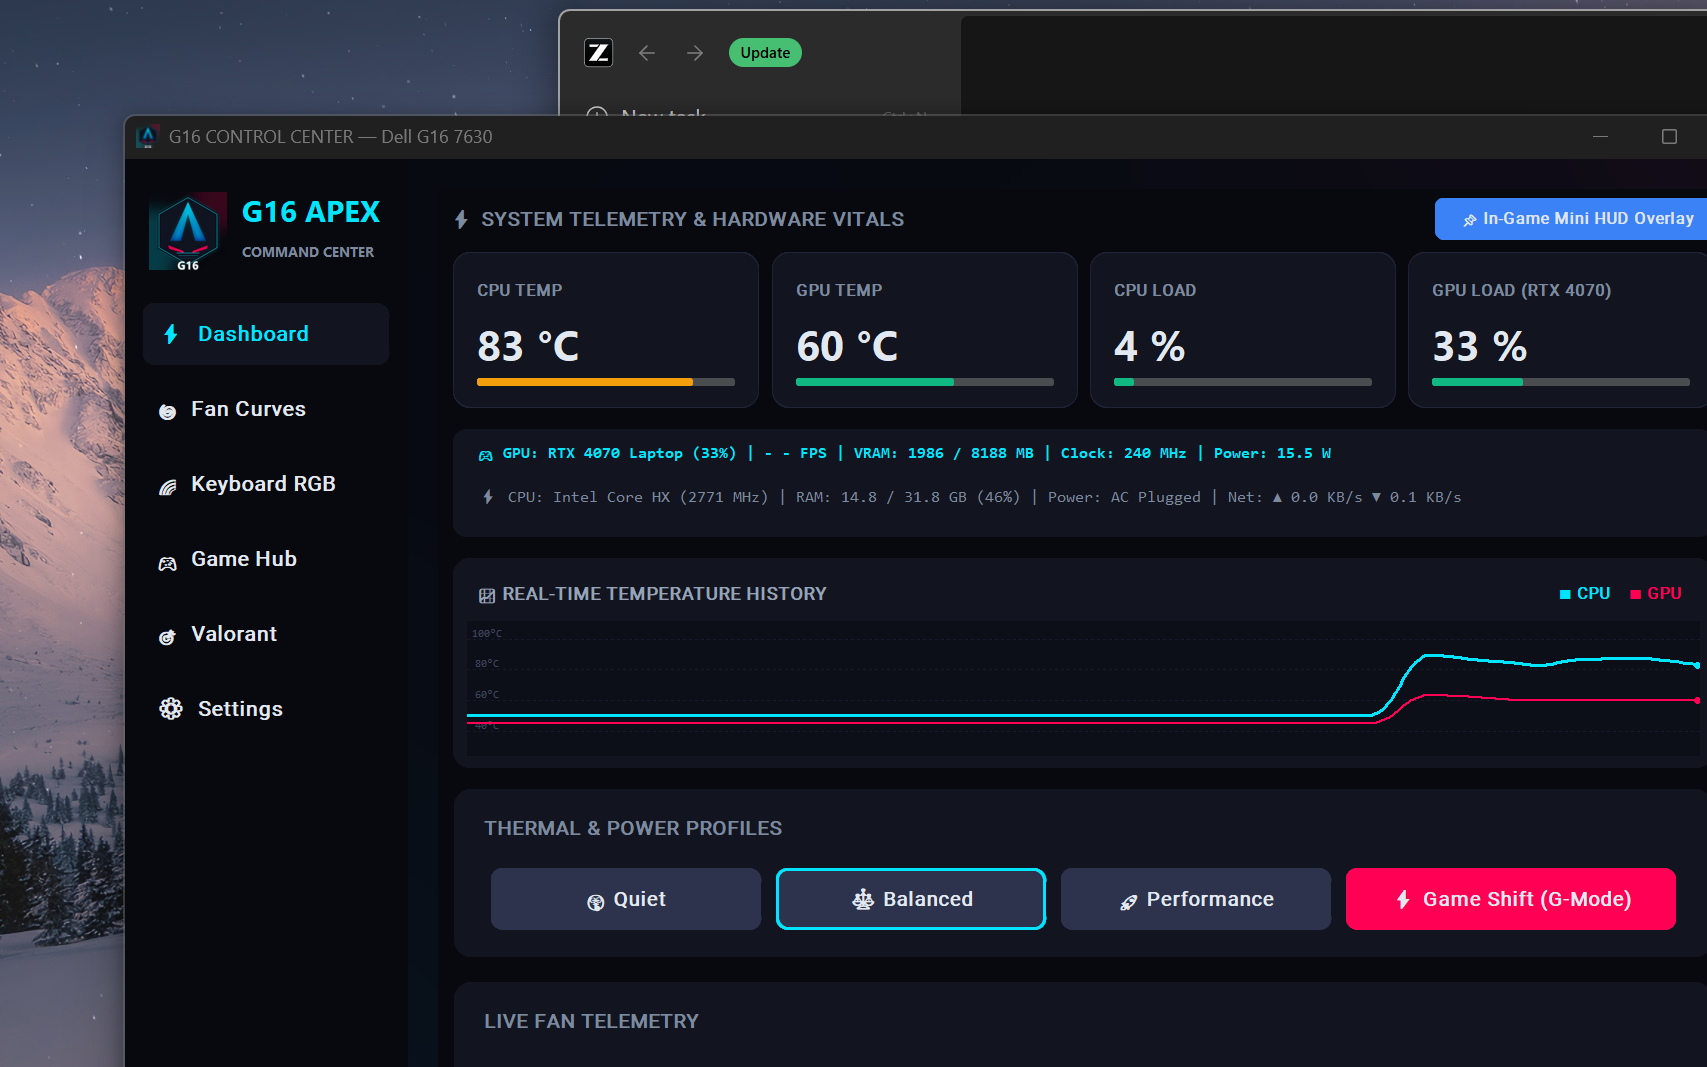
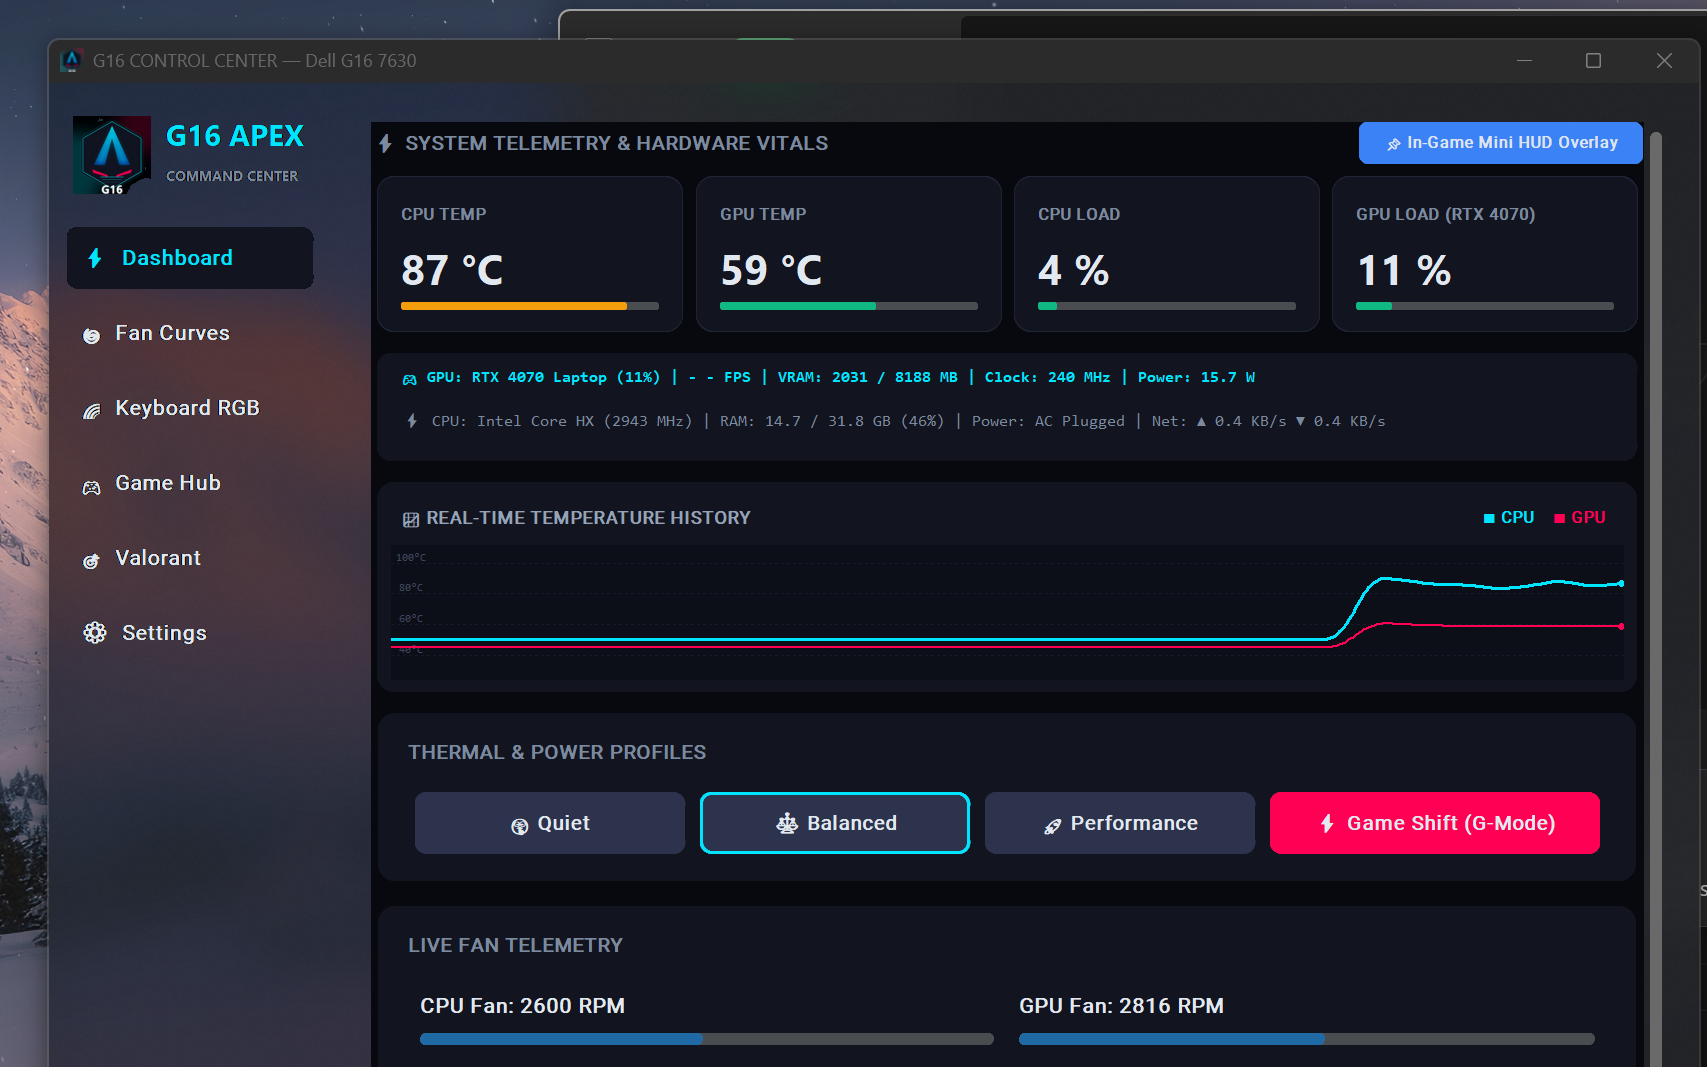
UI: real DWM acrylic glass backdrop, instant RGB presets, dedicated RGB engine
- DWM ACCENT_ENABLE_ACRYLICBLURBEHIND + Tk transparent color key = true
  frosted-glass window (smoked dark tint, falls back to gradient textures)
- RGB architecture: dedicated HID thread immune to WMI stalls; keepalive
  re-broadcasts per-key layouts every 12s; auto device reopen
- Color presets and custom picker now apply instantly to the whole board
- Ctrl+Alt+1..6 tab hotkeys + headless .shot_request tab automation
- Premium layered-glow logo (hex shield, gradient blade, crimson eyes)
- faulthandler crash tracing; docs/screenshots refreshed

diff --git a/app.py b/app.py
@@ -138,9 +138,11 @@ class G16App(ctk.CTk):
         # Mini HUD Window Instance (created hidden)
         self.mini_hud: Optional[ui_widgets.MiniHUDWindow] = None
 
-        # Dark titlebar + gradient background textures (visual overhaul)
+        # Real DWM acrylic glass backdrop + dark titlebar; falls back to
+        # gradient textures if the composition call is unavailable.
+        self._acrylic_ok = False
+        self.after(60, self._apply_acrylic)
         self._apply_dark_titlebar()
-        self._apply_background_textures()
 
         # Backend Engine
         self.backend = G16Backend(on_state_update=self.on_hardware_update)
@@ -242,6 +244,56 @@ class G16App(ctk.CTk):
             pass
 
     # ==========================================
+    # Visual shell: DWM acrylic glass + dark titlebar
+    # ==========================================
+    ACRYLIC_KEY = "#010203"  # magic color key - nothing else may use it
+
+    def _apply_acrylic(self):
+        """Turn the window background into real frosted-glass acrylic:
+        DWM ACCENT_ENABLE_ACRYLICBLURBEHIND + Tk transparent color key.
+        Falls back silently to the gradient textures if unsupported."""
+        try:
+            hwnd = ctypes.windll.user32.GetParent(self.winfo_id())
+            if not hwnd:
+                raise RuntimeError("no hwnd")
+
+            class ACCENT_POLICY(ctypes.Structure):
+                _fields_ = [("AccentState", ctypes.c_uint),
+                            ("AccentFlags", ctypes.c_uint),
+                            ("GradientColor", ctypes.c_uint),
+                            ("AnimationId", ctypes.c_uint)]
+
+            class WCA_DATA(ctypes.Structure):
+                _fields_ = [("Attrib", ctypes.c_uint),
+                            ("pvData", ctypes.POINTER(ACCENT_POLICY)),
+                            ("cbData", ctypes.c_size_t)]
+
+            # AccentState 4 = ACCENT_ENABLE_ACRYLICBLURBEHIND
+            # GradientColor is 0xAABBGGRR: smoked dark glass at ~80% strength
+            ap = ACCENT_POLICY(AccentState=4, AccentFlags=2,
+                               GradientColor=0x5533251E, AnimationId=0)
+            wca = WCA_DATA(Attrib=19, pvData=ctypes.pointer(ap),
+                           cbData=ctypes.sizeof(ap))
+            if not ctypes.windll.user32.SetWindowCompositionAttribute(
+                    hwnd, ctypes.byref(wca)):
+                raise RuntimeError("SetWindowCompositionAttribute failed")
+
+            # the color key lets the acrylic backdrop show through everywhere
+            # the app paints its background
+            key = self.ACRYLIC_KEY
+            self.attributes("-transparentcolor", key)
+            self.configure(fg_color=key)
+            self.content_frame.configure(fg_color=key)
+            self.sidebar.configure(fg_color=key)
+
+            self._acrylic_ok = True
+            print('[acrylic] backdrop applied')
+        except Exception as ex:
+            print('[acrylic] FAILED:', ex)
+            self._acrylic_ok = False
+            self._apply_background_textures()
+
+    # ==========================================
     # Sidebar
     # ==========================================
     def create_sidebar(self):
@@ -251,7 +303,7 @@ class G16App(ctk.CTk):
         self.sidebar.grid_rowconfigure(6, weight=1)
 
         # sidebar gradient texture behind its widgets
-        if hasattr(self, "_bg_side"):
+        if not getattr(self, "_acrylic_ok", False) and hasattr(self, "_bg_side"):
             side_lbl = ctk.CTkLabel(self.sidebar, image=self._bg_side, text="")
             side_lbl.place(x=0, y=0, relwidth=1, relheight=1)
             side_lbl.lower()
